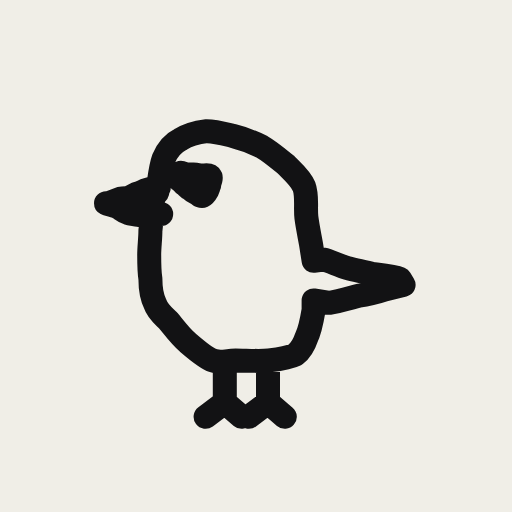
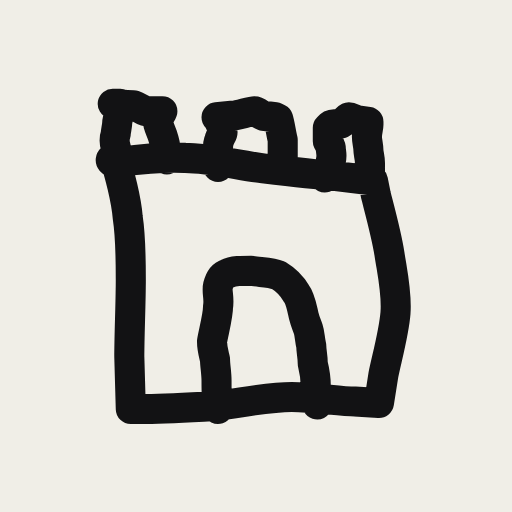
Deploy the app to keepclub.app root (from munin@a9e572e)

Changed region(s): [[0.1875, 0.1562, 0.8125, 0.8438]]

diff --git a/doodles-munin.js b/doodles-munin.js
@@ -1,12 +1,12 @@
-/* Munin's own doodles — the raven set, drawn through the same rough.py
- * pipeline as every course set. Used by the shelf, by the hoard's own
- * defaults, and as the theme for any course that brings no drawings of its
- * own. perch is the app mark.
+/* The shell's own doodles, drawn through the same rough.py pipeline as every
+ * course set. `tower` is keep club's mark; the remaining fourteen ravens stay
+ * as the doodle vocabulary for sections, groups, imported decks and the hoard.
  *
  * Generated by design/raven-doodles/build.py — do not edit; edit the clean
  * geometry there and re-run it.
  */
 const MUNIN_DOODLE = {
+  tower: 'M6.7 11.8C7.5 11.7 9.6 11.4 11.3 11.5C12.9 11.5 14.9 12 16.5 12.2C18.2 12.4 19.9 12.6 21.2 12.7L23.8 13L24 14C24.2 14.8 24.7 16.6 24.9 17.9C25.1 19.2 25.4 20.5 25.3 21.8C25.2 23.1 24.7 24.9 24.5 25.9L24.2 27.8L22.6 27.7C21.6 27.7 19.9 27.4 18.4 27.4C16.8 27.4 15 27.8 13.3 28C11.7 28.1 9.7 28.2 8.7 28.2L7.7 28.2L7.6 24.7C7.6 23.3 7.7 21.1 7.7 19.6C7.7 18.1 7.7 16.8 7.5 15.5C7.4 14.2 6.9 12.4 6.7 11.8C6.6 11.2 6 11.8 6.7 11.8ZM7 11.6C6.9 11.4 6.7 11 6.7 10.8C6.6 10.5 6.6 10.2 6.7 9.9C6.7 9.7 6.8 9.4 6.8 9.1C6.9 8.7 6.9 8.2 6.9 8L6.5 7.9L7 7.9C7.2 8 7.6 8 7.9 8C8.2 8.1 8.4 8.3 8.7 8.4L9.6 8.4L9.8 8.4C9.8 8.5 9.5 8.8 9.5 9.1C9.5 9.3 9.7 9.7 9.8 10C9.9 10.3 10 10.6 10 10.9C10.1 11.2 10.1 11.5 10.1 11.6M13.5 12.1C13.5 11.9 13.5 11.3 13.5 11C13.5 10.6 13.5 10.5 13.6 10.3C13.6 10.1 13.8 10 13.8 9.8C13.8 9.5 13.6 9.1 13.5 8.9L13.4 8.8L14.4 8.7C14.8 8.7 15.6 8.4 15.9 8.4C16.2 8.4 16.2 8.6 16.5 8.7L17.3 8.8L17.5 8.9C17.6 9.2 17.7 9.9 17.8 10.3C17.8 10.6 17.8 10.7 17.8 11C17.8 11.2 17.8 11.4 17.8 11.6C17.7 11.8 17.5 12.1 17.4 12.2M20.6 12.8C20.7 12.6 21 12 21 11.7C21.1 11.3 21 11.1 21 10.9C21 10.7 20.9 10.6 20.8 10.4C20.8 10.1 20.8 9.7 20.8 9.5L21 9.3L21.7 9.2C21.9 9.1 22 8.9 22.2 8.8C22.4 8.8 22.6 9 22.8 9L23.5 9.1L23.5 9.3C23.5 9.5 23.4 9.8 23.4 10.1C23.4 10.4 23.5 10.7 23.5 11C23.5 11.2 23.6 11.5 23.6 11.8C23.6 12 23.6 12.3 23.6 12.4M13.5 28.2C13.4 27.9 13.4 26.9 13.4 26.3C13.4 25.8 13.3 25.3 13.3 24.9C13.2 24.5 13.1 24.2 13.1 23.7C13.2 23.1 13.5 22 13.5 21.4C13.6 20.8 13.4 20.4 13.5 20C13.6 19.6 13.8 19.3 14.1 19.2C14.5 19 15.1 19 15.7 19C16.2 19.1 17 19.1 17.5 19.3C18 19.6 18.4 20 18.7 20.5C19 20.9 19.1 21.6 19.2 22C19.3 22.4 19.4 22.6 19.5 22.9C19.6 23.2 19.6 23.6 19.7 24C19.7 24.4 19.8 24.7 19.8 25.2C19.9 25.6 20 26.2 20 26.7C20.1 27.2 20 27.7 20.1 27.9',
   perch: 'M9.7 9.7C9.8 9.7 9.9 9.9 10 10C10.2 10.1 10.3 10.3 10.5 10.4C10.7 10.6 10.9 10.7 11.1 10.8C11.3 10.9 11.3 11 11.5 11C11.6 11 11.8 10.8 11.9 10.6C12 10.5 12 10.3 12.1 10.1C12.1 9.9 12.3 9.5 12.2 9.4C12.1 9.2 11.8 9.3 11.5 9.3C11.3 9.3 11.1 9.2 10.8 9.2C10.6 9.2 10.4 9.2 10.2 9.2C10 9.2 9.8 9 9.7 9.1C9.6 9.2 9.7 9.6 9.7 9.7C9.7 9.8 9.6 9.6 9.7 9.7Z M7.8 10.5C7.9 10.1 8 8.7 8.3 7.9C8.6 7.2 9.1 6.6 9.7 6.3C10.3 5.9 11.1 5.7 11.9 5.6C12.6 5.6 13.3 5.8 14.1 6C14.9 6.2 15.7 6.5 16.5 6.9C17.2 7.3 17.9 7.9 18.5 8.4C19.1 9 19.7 9.5 20 10.2C20.3 11 20.1 12 20.2 12.8C20.3 13.6 20.5 14.5 20.6 15.1L20.8 16.4L21.6 16.3C22.1 16.4 22.9 16.8 23.6 17C24.3 17.2 25 17.3 25.7 17.5C26.5 17.6 27.5 17.7 28 17.9L28.3 18.4L26.7 18.8C26.1 19 25.4 19.2 24.6 19.3C23.8 19.5 22.7 19.8 22.1 19.9L20.8 19.7L20.8 20.5C20.7 21.1 20.5 22.2 20.2 22.8C20 23.4 19.8 23.8 19.3 24.2C18.7 24.5 17.9 24.6 17.1 24.7C16.3 24.8 15.1 24.7 14.3 24.7C13.5 24.7 13.1 25 12.4 24.7C11.8 24.5 11 23.8 10.3 23.2C9.7 22.7 9.2 22 8.7 21.4C8.2 20.9 7.8 20.6 7.6 20C7.3 19.4 7.2 18.6 7.2 17.9C7.1 17.3 7.1 16.6 7.1 15.9C7.1 15.2 7.2 14.6 7.2 13.9C7.3 13.2 7.3 12.4 7.3 11.8L7.7 10.3L7.8 10.5C7.8 10.6 7.7 11 7.8 10.5ZM7.9 10.3C7.8 10.3 7.2 10.4 6.9 10.5C6.6 10.6 6.4 10.7 6.1 10.8C5.9 10.9 5.7 11 5.5 11.1C5.3 11.2 5.1 11.2 4.8 11.2L3.7 11.6L3.5 11.6C3.7 11.7 4.2 11.8 4.4 11.9C4.7 12 4.9 12.3 5.3 12.4C5.6 12.5 5.9 12.5 6.3 12.6C6.6 12.6 7.1 12.6 7.4 12.6C7.7 12.6 8 12.5 8.1 12.5M13.4 25L13.4 28.2M17 25L17 28.2M13.4 28.2L11.8 29.4M13.4 28.2L14.8 29.4M17 28.2L15.4 29.4M17 28.2L18.4 29.4',
   peek: 'M14.6 10.3C14.6 10.4 14.8 10.6 15 10.8C15.1 10.9 15.3 11.2 15.5 11.3C15.8 11.5 16.1 11.7 16.3 11.8C16.5 11.9 16.7 12 16.8 12C17 11.9 17.2 11.7 17.3 11.5C17.4 11.3 17.5 11.1 17.5 10.8C17.6 10.6 17.7 10.2 17.6 10C17.5 9.9 17.1 9.9 16.9 9.9C16.6 9.8 16.3 9.7 16 9.7C15.8 9.7 15.4 9.7 15.2 9.7C15 9.7 14.7 9.5 14.6 9.6C14.5 9.7 14.6 10.2 14.6 10.3C14.6 10.5 14.5 10.3 14.6 10.3Z M4.2 15.2C5 15 7.4 14.1 9 14C10.6 13.9 12.2 14.4 13.9 14.7C15.5 15.1 17.5 15.8 19 16C20.6 16.3 21.9 16.2 23.3 16.2L27.4 15.6L27.5 15.7C27.7 16.3 28.6 18 28.6 19.4C28.6 20.8 27.8 23 27.4 24.1L26.6 26.4L24.8 26.4C23.9 26.4 22.6 26.2 21.2 26.1C19.7 26.1 18 26.2 16.3 26.3C14.6 26.3 12.8 26.4 11.2 26.5C9.6 26.6 7.8 26.5 6.7 26.6L4.7 27.1L4.4 24.5C4.4 23.3 4.3 21.3 4.3 19.8C4.2 18.2 4.2 16 4.2 15.2C4.2 14.5 3.4 15.4 4.2 15.2ZM9.8 18.3C9.9 18.3 10.2 18.3 10.6 18.3C10.9 18.3 11.2 18.4 11.6 18.5C12 18.5 12.4 18.6 12.8 18.7C13.2 18.7 13.6 18.7 13.9 18.8C14.2 18.9 14.3 19.1 14.6 19.2C14.8 19.3 15.1 19.5 15.4 19.6C15.8 19.8 16.2 19.9 16.6 20.1C16.9 20.3 17.2 20.6 17.6 20.7C17.9 20.9 18.3 21 18.7 21C19.1 21.1 19.7 21.1 19.9 21.1M9.3 21.7C9.4 21.6 9.7 21.3 10 21.3C10.3 21.3 10.5 21.4 10.8 21.5C11.1 21.6 11.5 21.8 11.7 21.9C11.9 22 12 22.1 12.2 22.1C12.3 22.2 12.6 22.2 12.8 22.2C13.1 22.2 13.3 22.3 13.6 22.2C14 22.2 14.5 21.9 14.8 21.9C15 22 14.8 22.2 15 22.3C15.2 22.4 15.5 22.5 15.7 22.5C16 22.6 16.5 22.7 16.7 22.7M12.3 14.9C12.3 14.4 12.2 13.1 12.2 12.4C12.3 11.6 12.3 10.9 12.5 10.3C12.7 9.6 13.1 9 13.6 8.5C14.1 7.9 14.8 7.3 15.6 6.9C16.3 6.6 17.4 6.3 18.3 6.3C19.2 6.3 20.2 6.5 20.9 6.9C21.6 7.2 22 7.8 22.4 8.4C22.8 9.1 22.9 10.1 23.1 10.9C23.4 11.8 23.6 12.6 23.8 13.4C24 14.2 24.2 15.4 24.3 15.8M12.4 9.3C12.2 9.3 11.7 9.2 11.3 9.2C10.9 9.3 10.5 9.5 10.2 9.6C9.8 9.8 9.3 10.2 9.1 10.2C8.8 10.3 8.9 9.9 8.6 9.9L7.7 10.2L7.6 10.3C7.8 10.4 8.3 10.6 8.6 10.6C9 10.7 9.4 10.6 9.7 10.7C10 10.7 10.3 10.9 10.5 11.1C10.8 11.2 10.9 11.5 11.2 11.6C11.6 11.7 12.2 11.6 12.4 11.6',
   flap: 'M10.8 16.6C10.9 16.7 11 16.8 11.2 16.9C11.3 17 11.4 17.2 11.6 17.4C11.7 17.5 12 17.7 12.1 17.8C12.3 18 12.4 18.1 12.5 18.1C12.6 18.1 12.7 17.9 12.8 17.8C12.9 17.7 12.9 17.5 12.9 17.3C13 17.1 13.1 16.7 13 16.6C12.9 16.5 12.6 16.6 12.3 16.5C12.1 16.5 11.9 16.4 11.7 16.3C11.5 16.3 11.2 16.3 11.1 16.3C10.9 16.2 10.8 16 10.7 16.1C10.7 16.1 10.8 16.5 10.8 16.6C10.8 16.7 10.7 16.6 10.8 16.6Z M9.1 18.2C9.2 17.9 9.6 16.8 10 16.4C10.3 15.9 10.7 15.6 11.1 15.4C11.6 15.2 12.2 15.2 12.8 15.2C13.4 15.2 13.9 15.4 14.6 15.5C15.3 15.6 16 15.7 16.8 15.9C17.5 16.1 18.2 16.3 19 16.6C19.7 16.8 20.5 16.9 21.1 17.2C21.7 17.6 22.1 18.2 22.6 18.6C23 19.1 23.4 19.5 23.9 19.9C24.3 20.2 24.8 20.5 25.3 20.7C25.8 20.9 26.4 20.7 26.8 20.8C27.3 20.9 27.9 21.3 28.2 21.4L28.6 21.7L27.4 21.8C26.9 21.9 26.1 22.3 25.4 22.5C24.8 22.7 24 22.8 23.6 22.9L23.3 22.9L22 23.8C21.5 24.1 21 24.2 20.4 24.3C19.8 24.4 19.2 24.5 18.6 24.6C17.9 24.6 17.2 24.9 16.6 24.9C15.9 24.9 15.4 24.9 14.7 24.6C14 24.4 13.2 24 12.5 23.5C11.8 23.1 10.9 22.3 10.4 21.8C9.9 21.2 10 20.8 9.7 20.2C9.5 19.6 9.2 18.5 9.1 18.2C8.9 17.9 8.9 18.5 9.1 18.2ZM9.1 18.2C8.9 18.3 8.2 18.4 7.8 18.6C7.5 18.7 7.1 18.9 6.8 19.1C6.4 19.2 6.1 19.4 5.7 19.6C5.4 19.8 5 19.9 4.6 20L3.3 20.5L3.2 20.5C3.4 20.5 4.1 20.5 4.5 20.5C4.9 20.5 5.2 20.7 5.6 20.7C6 20.8 6.4 20.7 6.9 20.7C7.3 20.7 7.8 20.7 8.1 20.6C8.5 20.6 8.8 20.6 8.9 20.6M12.4 15.2C12.1 14.9 11.4 13.7 11 13.1C10.6 12.4 10.3 11.9 10.1 11.4C9.9 10.8 9.9 10.4 9.8 9.8C9.8 9.1 9.6 8.4 9.7 7.7C9.8 7 10.1 6.1 10.2 5.6L10.5 4.8L11.8 5.7C12.1 6.2 12 7.3 12.2 8C12.4 8.8 12.7 9.5 12.9 10.2C13.1 10.9 13.4 11.5 13.6 12.2C13.8 13 14.1 14.2 14.2 14.6M18.4 16.8C18.6 16.4 19.3 15.3 19.5 14.5C19.8 13.8 19.9 13.2 19.9 12.5C20 11.9 20 11.4 19.9 10.7C19.9 10.1 19.8 9.4 19.7 8.6C19.6 7.9 19.3 6.9 19.2 6.4L19 5.6L18 6.5C17.7 7 17.4 7.8 17.2 8.5C16.9 9.2 16.7 9.9 16.6 10.6C16.5 11.3 16.6 12.1 16.6 12.8C16.6 13.5 16.7 14.5 16.7 14.8',

diff --git a/index.html b/index.html
@@ -6,8 +6,8 @@
 <!-- One tag, set from JS: the app's own light/dark/auto toggle has to win over
      the system preference here too, or the browser bar and the page disagree. -->
 <meta name="theme-color" id="theme-color" content="#f0eee7">
-<meta name="description" content="Munin — spaced repetition that doesn't make you learn the app first. Pick a course, keep your progress on your device.">
-<title>Munin</title>
+<meta name="description" content="keep club — spaced repetition that doesn't make you learn the app first. Pick a course, keep your progress on your device.">
+<title>keep club</title>
 <link rel="manifest" href="manifest.webmanifest">
 <link rel="icon" href="icon-192.png" sizes="192x192">
 <link rel="apple-touch-icon" sizes="180x180" href="icon-180.png">
@@ -15,7 +15,7 @@
 <meta name="mobile-web-app-capable" content="yes">
 <!-- The home-screen label. Without it iOS uses <title>, which is too long and
      gets elided to "RYA Day Ski…" under the icon. -->
-<meta name="apple-mobile-web-app-title" content="Munin">
+<meta name="apple-mobile-web-app-title" content="keep club">
 <!-- Deliberately `default`, not `black-translucent`. Since iOS 15 the standalone
      status bar takes its colour from `theme-color` above, which this app rewrites
      when you switch theme — so it already follows the paper into dark mode.
@@ -356,7 +356,7 @@
   <p class="lb-hint" id="lb-hint">Pinch or double-tap to zoom · drag to pan</p>
 </div>
 
-<!-- The loading screen. Munin's raven is the default scene and it is markup,
+<!-- The loading screen. keep club's tower is the default scene and it is markup,
      not something JavaScript fills in: this screen exists to cover the window
      before app.js has run, so anything drawn from app.js is drawn exactly too
      late. A course brings its own scene as courses/<id>/boot.html + boot.css,
@@ -367,7 +367,7 @@
   <div class="boot-scene" id="boot-scene" data-from="munin" aria-hidden="true">
     <svg class="boot-raven" viewBox="0 0 32 32" fill="none" stroke="currentColor"
       stroke-width="2" stroke-linecap="round" stroke-linejoin="round">
-      <path pathLength="1" d="M9.7 9.7C9.8 9.7 9.9 9.9 10 10C10.2 10.1 10.3 10.3 10.5 10.4C10.7 10.6 10.9 10.7 11.1 10.8C11.3 10.9 11.3 11 11.5 11C11.6 11 11.8 10.8 11.9 10.6C12 10.5 12 10.3 12.1 10.1C12.1 9.9 12.3 9.5 12.2 9.4C12.1 9.2 11.8 9.3 11.5 9.3C11.3 9.3 11.1 9.2 10.8 9.2C10.6 9.2 10.4 9.2 10.2 9.2C10 9.2 9.8 9 9.7 9.1C9.6 9.2 9.7 9.6 9.7 9.7C9.7 9.8 9.6 9.6 9.7 9.7Z M7.8 10.5C7.9 10.1 8 8.7 8.3 7.9C8.6 7.2 9.1 6.6 9.7 6.3C10.3 5.9 11.1 5.7 11.9 5.6C12.6 5.6 13.3 5.8 14.1 6C14.9 6.2 15.7 6.5 16.5 6.9C17.2 7.3 17.9 7.9 18.5 8.4C19.1 9 19.7 9.5 20 10.2C20.3 11 20.1 12 20.2 12.8C20.3 13.6 20.5 14.5 20.6 15.1L20.8 16.4L21.6 16.3C22.1 16.4 22.9 16.8 23.6 17C24.3 17.2 25 17.3 25.7 17.5C26.5 17.6 27.5 17.7 28 17.9L28.3 18.4L26.7 18.8C26.1 19 25.4 19.2 24.6 19.3C23.8 19.5 22.7 19.8 22.1 19.9L20.8 19.7L20.8 20.5C20.7 21.1 20.5 22.2 20.2 22.8C20 23.4 19.8 23.8 19.3 24.2C18.7 24.5 17.9 24.6 17.1 24.7C16.3 24.8 15.1 24.7 14.3 24.7C13.5 24.7 13.1 25 12.4 24.7C11.8 24.5 11 23.8 10.3 23.2C9.7 22.7 9.2 22 8.7 21.4C8.2 20.9 7.8 20.6 7.6 20C7.3 19.4 7.2 18.6 7.2 17.9C7.1 17.3 7.1 16.6 7.1 15.9C7.1 15.2 7.2 14.6 7.2 13.9C7.3 13.2 7.3 12.4 7.3 11.8L7.7 10.3L7.8 10.5C7.8 10.6 7.7 11 7.8 10.5ZM7.9 10.3C7.8 10.3 7.2 10.4 6.9 10.5C6.6 10.6 6.4 10.7 6.1 10.8C5.9 10.9 5.7 11 5.5 11.1C5.3 11.2 5.1 11.2 4.8 11.2L3.7 11.6L3.5 11.6C3.7 11.7 4.2 11.8 4.4 11.9C4.7 12 4.9 12.3 5.3 12.4C5.6 12.5 5.9 12.5 6.3 12.6C6.6 12.6 7.1 12.6 7.4 12.6C7.7 12.6 8 12.5 8.1 12.5M13.4 25L13.4 28.2M17 25L17 28.2M13.4 28.2L11.8 29.4M13.4 28.2L14.8 29.4M17 28.2L15.4 29.4M17 28.2L18.4 29.4"/>
+      <path pathLength="1" d="M6.7 11.8C7.5 11.7 9.6 11.4 11.3 11.5C12.9 11.5 14.9 12 16.5 12.2C18.2 12.4 19.9 12.6 21.2 12.7L23.8 13L24 14C24.2 14.8 24.7 16.6 24.9 17.9C25.1 19.2 25.4 20.5 25.3 21.8C25.2 23.1 24.7 24.9 24.5 25.9L24.2 27.8L22.6 27.7C21.6 27.7 19.9 27.4 18.4 27.4C16.8 27.4 15 27.8 13.3 28C11.7 28.1 9.7 28.2 8.7 28.2L7.7 28.2L7.6 24.7C7.6 23.3 7.7 21.1 7.7 19.6C7.7 18.1 7.7 16.8 7.5 15.5C7.4 14.2 6.9 12.4 6.7 11.8C6.6 11.2 6 11.8 6.7 11.8ZM7 11.6C6.9 11.4 6.7 11 6.7 10.8C6.6 10.5 6.6 10.2 6.7 9.9C6.7 9.7 6.8 9.4 6.8 9.1C6.9 8.7 6.9 8.2 6.9 8L6.5 7.9L7 7.9C7.2 8 7.6 8 7.9 8C8.2 8.1 8.4 8.3 8.7 8.4L9.6 8.4L9.8 8.4C9.8 8.5 9.5 8.8 9.5 9.1C9.5 9.3 9.7 9.7 9.8 10C9.9 10.3 10 10.6 10 10.9C10.1 11.2 10.1 11.5 10.1 11.6M13.5 12.1C13.5 11.9 13.5 11.3 13.5 11C13.5 10.6 13.5 10.5 13.6 10.3C13.6 10.1 13.8 10 13.8 9.8C13.8 9.5 13.6 9.1 13.5 8.9L13.4 8.8L14.4 8.7C14.8 8.7 15.6 8.4 15.9 8.4C16.2 8.4 16.2 8.6 16.5 8.7L17.3 8.8L17.5 8.9C17.6 9.2 17.7 9.9 17.8 10.3C17.8 10.6 17.8 10.7 17.8 11C17.8 11.2 17.8 11.4 17.8 11.6C17.7 11.8 17.5 12.1 17.4 12.2M20.6 12.8C20.7 12.6 21 12 21 11.7C21.1 11.3 21 11.1 21 10.9C21 10.7 20.9 10.6 20.8 10.4C20.8 10.1 20.8 9.7 20.8 9.5L21 9.3L21.7 9.2C21.9 9.1 22 8.9 22.2 8.8C22.4 8.8 22.6 9 22.8 9L23.5 9.1L23.5 9.3C23.5 9.5 23.4 9.8 23.4 10.1C23.4 10.4 23.5 10.7 23.5 11C23.5 11.2 23.6 11.5 23.6 11.8C23.6 12 23.6 12.3 23.6 12.4M13.5 28.2C13.4 27.9 13.4 26.9 13.4 26.3C13.4 25.8 13.3 25.3 13.3 24.9C13.2 24.5 13.1 24.2 13.1 23.7C13.2 23.1 13.5 22 13.5 21.4C13.6 20.8 13.4 20.4 13.5 20C13.6 19.6 13.8 19.3 14.1 19.2C14.5 19 15.1 19 15.7 19C16.2 19.1 17 19.1 17.5 19.3C18 19.6 18.4 20 18.7 20.5C19 20.9 19.1 21.6 19.2 22C19.3 22.4 19.4 22.6 19.5 22.9C19.6 23.2 19.6 23.6 19.7 24C19.7 24.4 19.8 24.7 19.8 25.2C19.9 25.6 20 26.2 20 26.7C20.1 27.2 20 27.7 20.1 27.9"/>
     </svg>
   </div>
   <p id="boot-line">Loading…</p>

diff --git a/munin.js b/munin.js
@@ -42,7 +42,7 @@ const MUNIN = {
   /* Munin's own theme: the default for every slot a course leaves empty. */
   theme: {
     accent: { light: '#0e3f39', dark: '#35917f', inkLight: '#fffdf7', inkDark: '#141519' },
-    boot: { art: 'perch', line: 'Loading…' },
+    boot: { art: 'tower', line: 'Loading…' },
     fallback: 'perch',
     /* Ten of them, named. The frieze is ten drawings and no more — that is
      * what fits a 320px screen without a sideways scrollbar — so it cannot be
@@ -593,7 +593,7 @@ async function startCourse(c, loadDoodles) {
   injectAccent(c.accent);
   const line = document.getElementById('boot-line');
   if (line && c.boot.line) line.textContent = c.boot.line;
-  document.title = 'Munin — ' + c.title;
+  document.title = 'keep club — ' + c.title;
   // A course that draws figures brings the stylesheet for them: its own nouns
   // — rigging, fenders, pontoons — used to be fifty rules in app.css, applied
   // over every deck including the ones about German verbs.
@@ -1018,7 +1018,7 @@ function localTile(d) {
 async function renderShelf(asOverlay, say) {
   if (!asOverlay) {
     injectAccent(MUNIN.theme.accent);
-    document.title = 'Munin';
+    document.title = 'keep club';
   }
   ensureShelfCss();
 
@@ -1063,13 +1063,13 @@ async function renderShelf(asOverlay, say) {
     el.setAttribute('aria-label', 'Courses');
   }
   el.innerHTML = `<div class="shelf-inner">
-    <div class="shelf-mark">${muninDoodle('perch')}<h1>munin</h1>
+    <div class="shelf-mark">${muninDoodle('tower')}<h1>keep club</h1>
       <button type="button" class="icon-btn" id="shelf-theme" aria-label="Switch colour theme"
         title="Switch colour theme"><span aria-hidden="true" data-theme-glyph></span></button>
       ${asOverlay ? `<button type="button" class="icon-btn shelf-x" id="shelf-x"
         aria-label="Close" title="Close">✕</button>` : ''}
     </div>
-    <p class="shelf-sub">a friendly raven who remembers for you</p>
+    <p class="shelf-sub">spaced repetition that doesn't make you learn the app first</p>
     <div class="shelf-tiles">
       ${say ? `<div class="shelf-tile broken">${muninDoodle('peek')}
         <span><b>${escHtml(say)}</b><small>pick one below to carry on</small></span></div>` : ''}
@@ -1248,7 +1248,7 @@ function mountShelfButton(c) {
   const b = document.createElement('button');
   b.type = 'button';
   b.className = 'shelf-btn';
-  b.innerHTML = muninDoodle('perch') + '<span>courses</span>';
+  b.innerHTML = muninDoodle('tower') + '<span>courses</span>';
   b.addEventListener('click', async () => {
     if (shelfOpening || document.querySelector('.shelf.on[role="dialog"]')) return;
     shelfOpening = true;

diff --git a/sw.js b/sw.js
@@ -15,7 +15,7 @@
  * BUILD is stamped by scripts/deploy-to-kkonrad.sh from the content actually
  * shipped: without that, a cache-first shell never updates.
  */
-const BUILD = { shell: 'dc08857be9', courses: { 'day-skipper': '6b322ca06d', 'competent-crew': '593597f64b' } };
+const BUILD = { shell: 'c308efff07', courses: { 'day-skipper': '6b322ca06d', 'competent-crew': '593597f64b' } };
 const SHELL_V = 'munin-shell-' + BUILD.shell;
 const courseV = (id) => 'munin-course-' + id + '-' + (BUILD.courses[id] || 'dev');
 const SCOPE = new URL('./', self.registration.scope).pathname;
